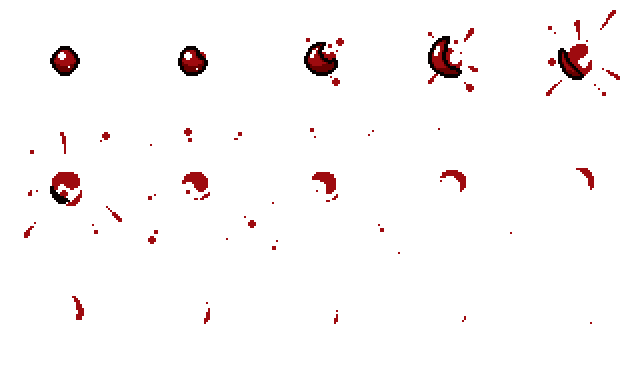
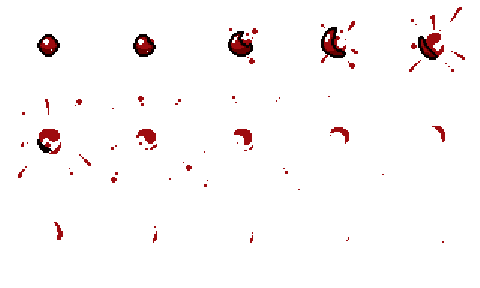
[Feature] Monster Pooter 구현

diff --git a/The Binding of Isaac(Rebirth)/MonsterBullet.cpp b/The Binding of Isaac(Rebirth)/MonsterBullet.cpp
@@ -15,12 +15,12 @@ void AMonsterBullet::BeginPlay()
 	AActor::BeginPlay();
 
 	MonsterBulletRenderer = CreateImageRenderer(IsaacRenderOrder::Bullet);
-	MonsterBulletRenderer->SetImage("MonsterTear", 0);
-	MonsterBulletRenderer->SetTransform({ {0,0}, RendererSize });
-	MonsterBulletRenderer->CreateAnimation("DestroyMonsterBullet", "MonsterTear.png", 0, 13, 0.03f, true);
+	MonsterBulletRenderer->SetImage("MonsterTear.png", 0);
+	MonsterBulletRenderer->AutoImageScale();
+	MonsterBulletRenderer->CreateAnimation("DestroyMonsterBullet", "MonsterTear.png", 0, 14, 0.03f, false);
 
 	MonsterBulletCollision = CreateCollision(IsaacCollisionOrder::Bullet);
-	MonsterBulletCollision->SetPosition({ 0, -28 });
+	MonsterBulletCollision->SetPosition({ 0, 0 });
 	MonsterBulletCollision->SetScale({ 20, 20 });
 	MonsterBulletCollision->SetColType(ECollisionType::CirCle);
 
@@ -50,20 +50,20 @@ void AMonsterBullet::IsCrashed()
 {
 	UPlayLevel* Level = dynamic_cast<UPlayLevel*>(GetWorld());
 	FVector CurRoomPos = Level->GetCurRoom()->GetActorLocation();
-	FVector BulletPos = GetActorLocation();
-	if (BulletPos.X < CurRoomPos.X - 330)
+	FVector MonsterBulletPos = GetActorLocation();
+	if (MonsterBulletPos.X < CurRoomPos.X - 330)
 	{
 		IsDestroy = true;
 	}
-	if (BulletPos.Y < CurRoomPos.Y - 180)
+	if (MonsterBulletPos.Y < CurRoomPos.Y - 180)
 	{
 		IsDestroy = true;
 	}
-	if (BulletPos.X > CurRoomPos.X + 330)
+	if (MonsterBulletPos.X > CurRoomPos.X + 330)
 	{
 		IsDestroy = true;
 	}
-	if (BulletPos.Y > CurRoomPos.Y + 230)
+	if (MonsterBulletPos.Y > CurRoomPos.Y + 230)
 	{
 		IsDestroy = true;
 	}

diff --git a/The Binding of Isaac(Rebirth)/Bullet.cpp b/The Binding of Isaac(Rebirth)/Bullet.cpp
@@ -20,7 +20,7 @@ void ABullet::BeginPlay()
 	BulletRenderer = CreateImageRenderer(IsaacRenderOrder::Bullet);
 	BulletRenderer->SetImage("Tears.png", 6);
 	BulletRenderer->SetTransform({ {0,-28}, RendererSize });
-	BulletRenderer->CreateAnimation("DestroyBullet", "DestroyTear.png", 0, 13, 0.03f, true);
+	BulletRenderer->CreateAnimation("DestroyBullet", "DestroyTear.png", 0, 13, 0.03f, false);
 
 	BulletCollision = CreateCollision(IsaacCollisionOrder::Bullet);
 	BulletCollision->SetPosition({ 0, -28 });

diff --git a/The Binding of Isaac(Rebirth)/PlayLevel.cpp b/The Binding of Isaac(Rebirth)/PlayLevel.cpp
@@ -61,7 +61,7 @@ void UPlayLevel::BeginPlay()
 	ARoom* Room_7 = CreateRoom(0, -2, "Room_02.png", ERoomType::Normal);
 	ARoom* Room_8 = CreateRoom(-1, -2, "Room_03.png", ERoomType::BossRoom);
 
-	Room_0->CreateMonsters(EMonsterType::Fly, { -200, 0 });
+	Room_0->CreateMonsters(EMonsterType::Pooter, { -200, 0 });
 	Room_8->CreateMonsters(EMonsterType::Fly, { -200, 0 });
 
 

diff --git a/The Binding of Isaac(Rebirth)/Monster.h b/The Binding of Isaac(Rebirth)/Monster.h
@@ -41,8 +41,13 @@ protected:
 	FVector MonsterToPlayerDir = FVector::Zero;
 	FVector MonsterToPlayerDirNormal = FVector::Zero;
 
+	FTransform PlayerCollisionTrans;
+	FTransform MonsterCollisionTrans;
+	FTransform PlayerCheckCollisionTrans;
+
 	ARoom* CurRoom = nullptr;
 
+	float MonsterHp = 0.0f;
 	float MonsterMoveSpeed = 0.0f;
 
 private:

diff --git a/The Binding of Isaac(Rebirth)/Player.cpp b/The Binding of Isaac(Rebirth)/Player.cpp
@@ -191,7 +191,7 @@ void APlayer::Attack(float _DeltaTime)
 {
 	HeadDirCheck();
 
-	if (BulletCoolTime < 0)
+	if (BulletCoolTime <= 0)
 	{
 		if (UEngineInput::IsPress(VK_LEFT))
 		{

diff --git a/The Binding of Isaac(Rebirth)/MonsterBullet.h b/The Binding of Isaac(Rebirth)/MonsterBullet.h
@@ -44,6 +44,6 @@ private:
 	float MonsterBulletDestroyTime = 0.8f;
 
 	FVector Dir = FVector::Zero;
-	float Speed = 500.0f;
+	float Speed = 300.0f;
 };
 
